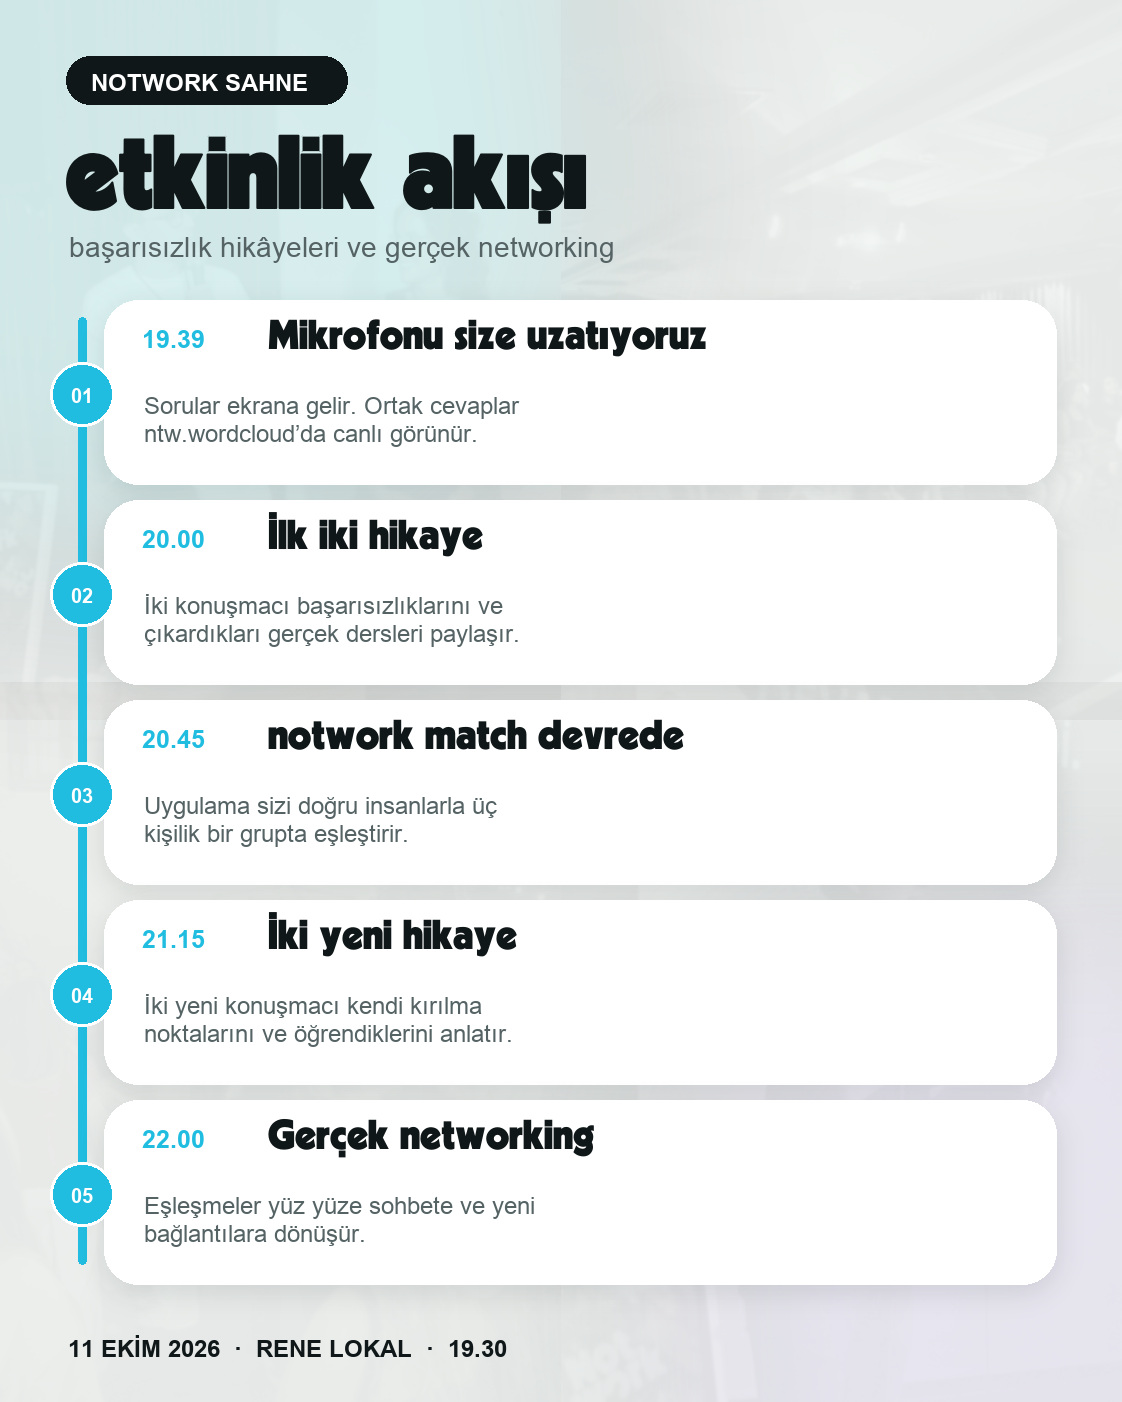
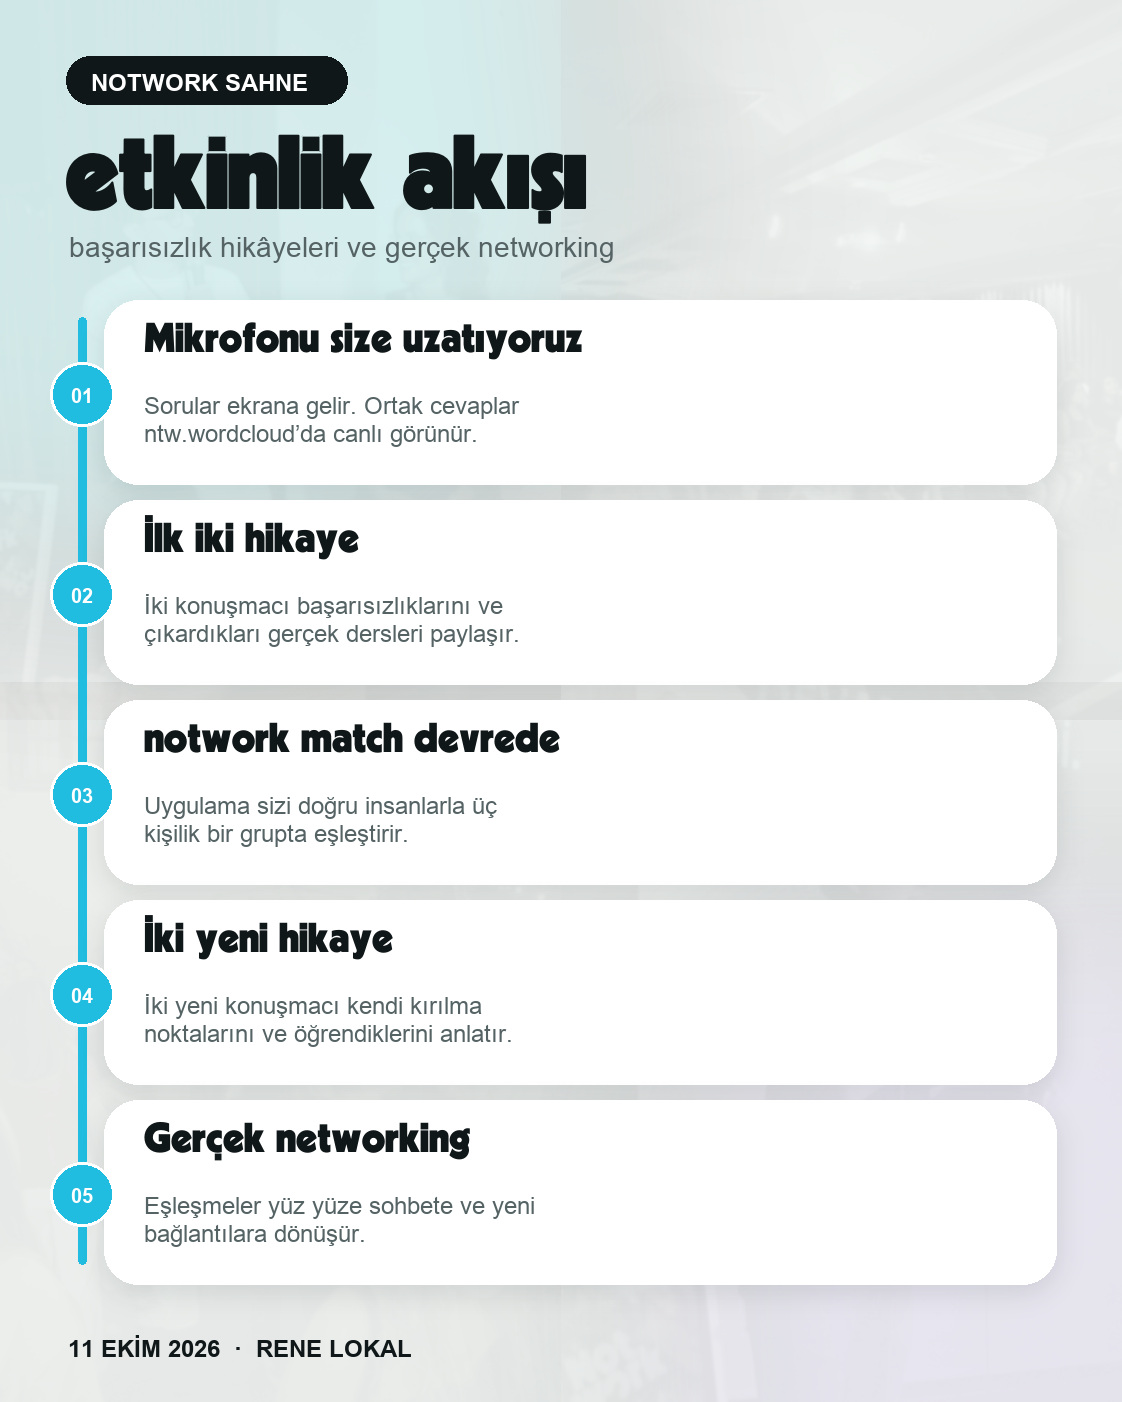
Remove times from Sahne event flow

diff --git a/src/components/EventProductPage.tsx b/src/components/EventProductPage.tsx
@@ -39,7 +39,7 @@ export type EventTicketOption = {
 };
 
 export type EventFlowStep = {
-  time: string;
+  time?: string;
   duration: string;
   product: string;
   title: string;
@@ -563,7 +563,7 @@ function EventFlow({ config }: { config: EventProductConfig }) {
             const Icon = item.icon;
             return (
               <article
-                key={`${item.time}-${item.product}`}
+                key={`${index}-${item.product}`}
                 className="relative w-[78vw] min-w-[78vw] snap-start overflow-hidden rounded-[1.5rem] border border-white/12 bg-white/[0.055] p-4 backdrop-blur sm:w-[48vw] sm:min-w-[48vw] lg:w-auto lg:min-w-0 lg:rounded-[2rem] lg:p-6"
               >
                 <div className="flex items-start justify-between gap-4">
@@ -577,8 +577,12 @@ function EventFlow({ config }: { config: EventProductConfig }) {
                   </span>
                 </div>
                 <div className="mt-5 flex flex-wrap items-center gap-2 text-[10px] font-black uppercase tracking-[0.15em] lg:mt-8 lg:text-xs lg:tracking-[0.17em]">
-                  <span className="text-[#8fcbd0]">{item.time}</span>
-                  <span className="text-white/20">/</span>
+                  {item.time ? (
+                    <>
+                      <span className="text-[#8fcbd0]">{item.time}</span>
+                      <span className="text-white/20">/</span>
+                    </>
+                  ) : null}
                   <span className="text-white/45">{item.duration}</span>
                 </div>
                 <div className="mt-3 inline-flex rounded-full border border-white/12 bg-white/[0.06] px-2.5 py-1 text-[10px] font-black uppercase tracking-[0.18em] text-white/55">

diff --git a/src/routes/9-ekim.tsx b/src/routes/9-ekim.tsx
@@ -112,7 +112,6 @@ export const eventConfig: EventProductConfig = {
     "Önce mikrofon size uzanır. Ardından dört gerçek hikâye dinler, notwork match ile doğru kişilerle eşleşir ve geceyi serbest networking ile tamamlarsınız.",
   flow: [
     {
-      time: "19.39",
       duration: "interaktif kısım",
       product: "ntw.wordcloud",
       title: "Mikrofonu size uzatıyoruz.",
@@ -123,7 +122,6 @@ export const eventConfig: EventProductConfig = {
       accent: "bg-[#b8eff0] text-[#07353a]",
     },
     {
-      time: "20.00",
       duration: "ilk iki sunum",
       product: "2 ilham veren hikâye",
       title: "İlk iki başarısızlık hikâyesi.",
@@ -134,7 +132,6 @@ export const eventConfig: EventProductConfig = {
       accent: "bg-[#ffd1e5] text-[#63233f]",
     },
     {
-      time: "20.45",
       duration: "30 dakika",
       product: "notwork match",
       title: "Eşleştirme sistemi devreye girer.",
@@ -145,7 +142,6 @@ export const eventConfig: EventProductConfig = {
       accent: "bg-[#d8c6ff] text-[#392263]",
     },
     {
-      time: "21.15",
       duration: "iki yeni sunum",
       product: "2 ilham veren hikâye",
       title: "İki yeni başarısızlık hikâyesi.",
@@ -156,7 +152,6 @@ export const eventConfig: EventProductConfig = {
       accent: "bg-[#ffe5a8] text-[#61450a]",
     },
     {
-      time: "22.00",
       duration: "60 dakika",
       product: "gerçek networking",
       title: "Gece gerçek bağlantılarla devam eder.",
